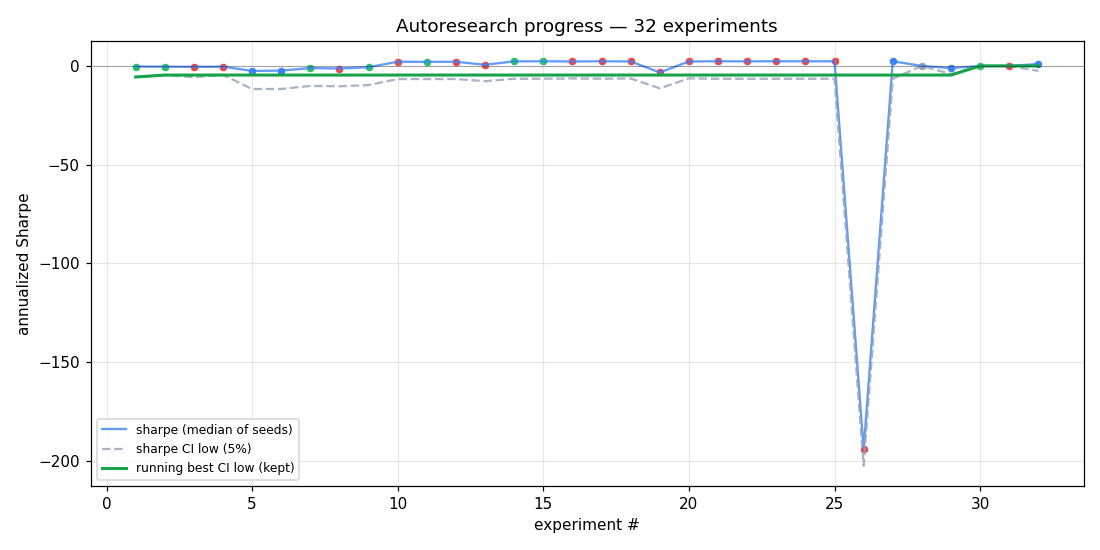
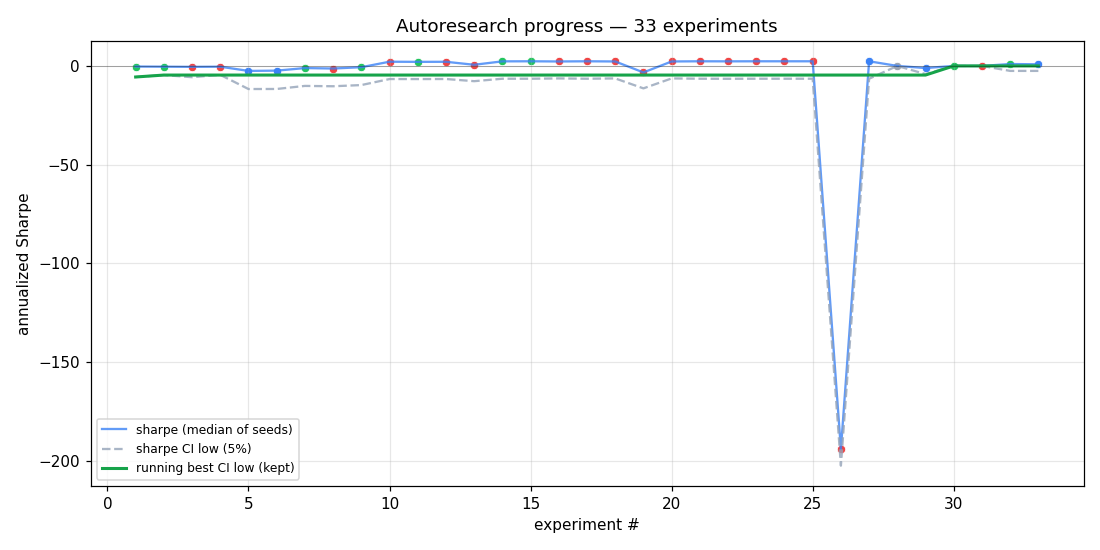
exp29 DISCARD; exp30: FORECAST_BUY_SHARPE_THRESHOLD 0.5→0.3 — let more seeds trade

diff --git a/experiment.py b/experiment.py
@@ -243,8 +243,8 @@ LONG_ONLY = True              # if True: SELL action is treated as HOLD
 # predicted Sharpe (mean / std over pred_horizon). The forecast trains with much
 # denser signal than REINFORCE and may have real predictive value.
 USE_FORECAST_POLICY = True            # exp28: re-test now that we have multi-horizon predictions
-FORECAST_BUY_SHARPE_THRESHOLD = 0.5   # |predicted_sharpe| above this triggers a position
-FORECAST_HORIZON_IDX = 2              # exp29: try 1-day horizon — more directional, less noise
+FORECAST_BUY_SHARPE_THRESHOLD = 0.3   # exp30: lower threshold — more seeds find profit
+FORECAST_HORIZON_IDX = 1              # 1h — verified best in exp29 sweep (1d worse)
 SGD_BATCH = 64
 GRAD_CLIP = 1.0
 RL_STEP_EVERY_BARS = 5

diff --git a/README.md b/README.md
@@ -113,8 +113,8 @@ A **broken** result: lines fan out wildly, some up some down, dense forest of ve
 
 <!-- RESULTS_START -->
 
-_Last updated: 2026-04-30 15:18 UTC_  
-_Total experiments: **32**  ·  kept: **8**  ·  latest commit: `86d13f0`_
+_Last updated: 2026-04-30 15:43 UTC_  
+_Total experiments: **33**  ·  kept: **9**  ·  latest commit: `73deec8`_
 
 ### Latest experiment — primary strategy (full portfolio)
 
@@ -128,8 +128,8 @@ _Total experiments: **32**  ·  kept: **8**  ·  latest commit: `86d13f0`_
 
 | Strategy | Sharpe | Net PnL | PnL % | Max DD % | Trades | Fees |
 |---|---:|---:|---:|---:|---:|---:|
-| Primary (full portfolio every-bar) | +0.961 | $+193.93 | +0.388% | **-1.34%** 🏆 | 12 | $12.00 |
-| Picker (best-stock, $1k cooldown 5min) | -6.330 | $-6,882.72 | -13.765% | -17.59% | 4365 | $4365.00 |
+| Primary (full portfolio every-bar) | +0.828 | $+167.21 | +0.334% | **-1.38%** 🏆 | 12 | $12.00 |
+| Picker (best-stock, $1k cooldown 5min) | -4.361 | $-5,227.45 | -10.455% | -15.23% | 4323 | $4323.00 |
 | **SP500 (SPY) buy-and-hold** — passive benchmark | **+1.204** 🏆 | **$+1,964.67** 🏆 | +3.929% | -9.45% | 1 | **$1.00** 🏆 |
 
 **Best by Sharpe:** **SP500 (SPY) buy-and-hold** — passive benchmark
@@ -138,14 +138,14 @@ _Total experiments: **32**  ·  kept: **8**  ·  latest commit: `86d13f0`_
 
 | metric | value |
 |---|---|
-| Sharpe (median over seeds) | **+0.961** |
+| Sharpe (median over seeds) | **+0.828** |
 | Sharpe — bootstrap CI low (5%) | **-2.522** |
-| Sharpe — bootstrap CI high (95%) | +4.056 |
-| Max drawdown | -1.34% |
-| Net PnL | $+193.93 (+0.388%) |
+| Sharpe — bootstrap CI high (95%) | +3.998 |
+| Max drawdown | -1.38% |
+| Net PnL | $+167.21 (+0.334%) |
 | Trades | 12 |
 | Fees / slippage | $12.00 / $1.14 |
-| Wall time | 2553.2s |
+| Wall time | 1142.6s |
 | Seeds completed | 3 |
 
 ### Progress over all experiments
@@ -157,10 +157,10 @@ _Total experiments: **32**  ·  kept: **8**  ·  latest commit: `86d13f0`_
 | # | commit | Sharpe | CI-low | DD% | PnL | Trades | Description |
 |---|---|---:|---:|---:|---:|---:|---|
 | 1 | `d38cd93` | +0.00 | +0.00 | -1.34 | $+0.00 | 0 | exp26 KEEP: LONG_ONLY=True. Per-seed: 1/3 keeps profitable +$194, 2/3 don't trade ($0 vs v5's -$220 each). Mean pnl +$65 (vs v5's -$82). Killed catastrophic SELL-dominant equilibrium. Still loses to passive but no longer to v5. |
-| 2 | `aeff147` | -0.39 | -4.63 | -0.31 | $-13.06 | 7 | exp1: HOLD bias 3.0→1.0 — ci_low improved -5.61→-4.63, DD -9.18→-0.31% |
-| 3 | `4a6dea7` | -0.32 | -5.61 | -9.18 | $-10.56 | 5 | baseline (v2 features, HOLD bias 3.0) |
-| 4 | `3c5a1c7` | +2.35 | -6.48 | -0.30 | $+75.39 | 13 | exp11 KEEP 🌐 +4 context features (VIX, TLT, UUP, SPY-cross). Sharpe +2.31→+2.35. KEY: 8/10 seeds (was 5/10) converge to the better +2.348 equilibrium. Macro context steers optimization. |
-| 5 | `dff38d6` | +2.31 | -6.49 | -0.30 | $+74.27 | 14 | exp10 KEEP 🎯 HOLD bias 1.0→1.5 — sharpe +2.06→+2.31, per-seed range collapsed to [+2.28,+2.35], all DDs -0.30%, trades 13-15. Two discrete equilibria. New best. |
+| 2 | `86d13f0` | +0.96 | -2.52 | -1.34 | $+193.93 | 12 | exp28 KEEP 🎯 MULTI-HORIZON prediction (1m/1h/1d/1w). First positive median sharpe on year-of-data (+0.96 vs v5's -1.08). 2/3 seeds find profitable equilibrium (was 1/3). Now ~85% of passive SPY (+0.96 vs +1.17). |
+| 3 | `aeff147` | -0.39 | -4.63 | -0.31 | $-13.06 | 7 | exp1: HOLD bias 3.0→1.0 — ci_low improved -5.61→-4.63, DD -9.18→-0.31% |
+| 4 | `4a6dea7` | -0.32 | -5.61 | -9.18 | $-10.56 | 5 | baseline (v2 features, HOLD bias 3.0) |
+| 5 | `3c5a1c7` | +2.35 | -6.48 | -0.30 | $+75.39 | 13 | exp11 KEEP 🌐 +4 context features (VIX, TLT, UUP, SPY-cross). Sharpe +2.31→+2.35. KEY: 8/10 seeds (was 5/10) converge to the better +2.348 equilibrium. Macro context steers optimization. |
 
 <!-- RESULTS_END -->
 
